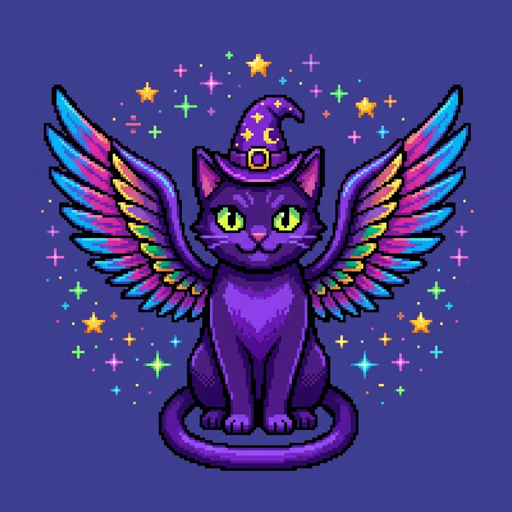
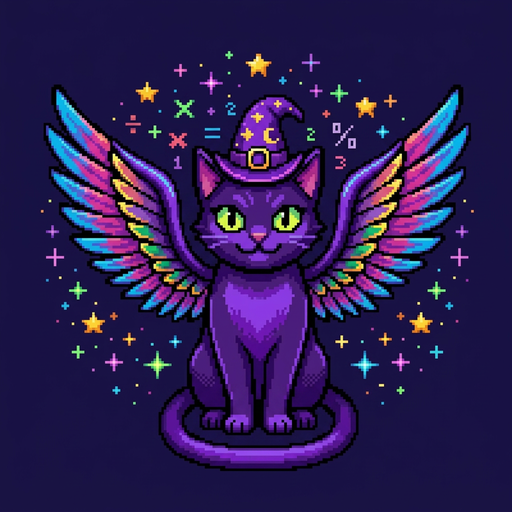
Add Spell Caster dark purple theme and pixel-art assets
Rewrites the :root CSS palette to a dark-native scheme matching the
Spell Caster cat artwork (deep purple bg, vivid violet accent, soft
lavender text). The app's UI was already keyed off CSS custom
properties, so most of the theme swap is a single :root block; the
rest is patching seven hard-coded hex values that would have clashed
in dark mode (disabled button, pause overlay, timer text-shadow,
answer input bg, numpad tap state).

PWA metadata (theme-color, background_color, apple status-bar style)
moves in lockstep with the CSS so the install splash and browser
chrome match. Service worker cache bumped to ttp-v5 so existing
installs pick up the new theme.

Numpad backspace/submit SVGs replaced with pixel-art PNGs matching
the cat artwork. Maskable icon variant updated with the safe-zone
respecting version generated from Gamma.app. New splash.png added.

diff --git a/styles.css b/styles.css
@@ -1,17 +1,17 @@
 :root {
-  --bg: #f7f9fc;
-  --card: #ffffff;
-  --text: #1c2330;
-  --muted: #6b7280;
-  --accent: #3b82f6;
-  --accent-dark: #2563eb;
-  --correct: #16a34a;
-  --correct-bg: #dcfce7;
-  --wrong: #dc2626;
-  --wrong-bg: #fee2e2;
-  --amber: #f59e0b;
-  --border: #e5e7eb;
-  --shadow: 0 6px 24px rgba(16, 24, 40, 0.08);
+  --bg: #1a1040;
+  --card: #2d1b69;
+  --text: #f0e6ff;
+  --muted: #a78bca;
+  --accent: #7c3aed;
+  --accent-dark: #5b21b6;
+  --correct: #22c55e;
+  --correct-bg: #14532d;
+  --wrong: #f87171;
+  --wrong-bg: #450a0a;
+  --amber: #fbbf24;
+  --border: #4c1d95;
+  --shadow: 0 6px 24px rgba(0, 0, 0, 0.4);
 }
 
 * { box-sizing: border-box; }
@@ -74,7 +74,7 @@ h1 {
 }
 .primary-btn:hover { background: var(--accent-dark); }
 .primary-btn:active { transform: scale(0.98); }
-.primary-btn:disabled { background: #9ca3af; cursor: not-allowed; }
+.primary-btn:disabled { background: var(--muted); cursor: not-allowed; }
 
 .status-bar {
   display: flex;
@@ -106,7 +106,7 @@ h1 {
 .pause-overlay {
   position: absolute;
   inset: 0;
-  background: rgba(247, 249, 252, 0.92);
+  background: rgba(26, 16, 64, 0.92);
   border-radius: 12px;
   display: flex;
   align-items: center;
@@ -157,7 +157,7 @@ h1 {
   font-size: 11px;
   font-weight: 700;
   color: var(--text);
-  text-shadow: 0 0 2px rgba(255,255,255,0.7);
+  text-shadow: 0 0 2px rgba(0,0,0,0.7);
 }
 
 .question-card {
@@ -191,12 +191,12 @@ h1 {
   border: 2px solid var(--border);
   border-radius: 10px;
   outline: none;
-  background: #fafbfc;
+  background: #241454;
   color: var(--text);
   caret-color: transparent;
   transition: border-color 120ms ease;
 }
-.answer-input:disabled { background: #f3f4f6; color: var(--muted); }
+.answer-input:disabled { background: var(--card); color: var(--muted); }
 
 .numpad {
   display: grid;
@@ -225,7 +225,7 @@ h1 {
   transition: background 100ms ease, transform 60ms ease, border-color 100ms ease;
 }
 .numpad-btn:hover { border-color: var(--accent); }
-.numpad-btn:active { transform: scale(0.96); background: #eef2f7; }
+.numpad-btn:active { transform: scale(0.96); background: var(--accent-dark); }
 .numpad-btn:disabled { opacity: 0.45; cursor: not-allowed; transform: none; }
 
 .numpad-btn.action {

diff --git a/index.html b/index.html
@@ -6,9 +6,9 @@
   <title>Times Tables Practice</title>
   <link rel="manifest" href="manifest.webmanifest" />
   <meta name="apple-mobile-web-app-capable" content="yes" />
-  <meta name="apple-mobile-web-app-status-bar-style" content="default" />
+  <meta name="apple-mobile-web-app-status-bar-style" content="black-translucent" />
   <meta name="apple-mobile-web-app-title" content="Times Tables" />
-  <meta name="theme-color" content="#3b82f6" />
+  <meta name="theme-color" content="#7c3aed" />
   <link rel="apple-touch-icon" href="icons/icon-180.png" />
   <link rel="stylesheet" href="styles.css" />
 </head>
@@ -60,11 +60,11 @@
             <button type="button" class="numpad-btn" data-digit="8">8</button>
             <button type="button" class="numpad-btn" data-digit="9">9</button>
             <button type="button" id="backspace-btn" class="numpad-btn action backspace" aria-label="Backspace">
-              <img src="icons/backspace.svg" alt="" />
+              <img src="icons/backspace.png" alt="" />
             </button>
             <button type="button" class="numpad-btn" data-digit="0">0</button>
             <button type="submit" id="submit-btn" class="numpad-btn action submit" aria-label="Submit">
-              <img src="icons/submit.svg" alt="" />
+              <img src="icons/submit.png" alt="" />
             </button>
           </div>
         </form>

diff --git a/sw.js b/sw.js
@@ -1,4 +1,4 @@
-const CACHE = 'ttp-v4';
+const CACHE = 'ttp-v5';
 const ASSETS = [
   './',
   'index.html',
@@ -9,8 +9,9 @@ const ASSETS = [
   'icons/icon-192.png',
   'icons/icon-512.png',
   'icons/icon-512-maskable.png',
-  'icons/backspace.svg',
-  'icons/submit.svg',
+  'icons/backspace.png',
+  'icons/submit.png',
+  'icons/splash.png',
   'screenshots/desktop.png',
   'screenshots/mobile.png'
 ];
